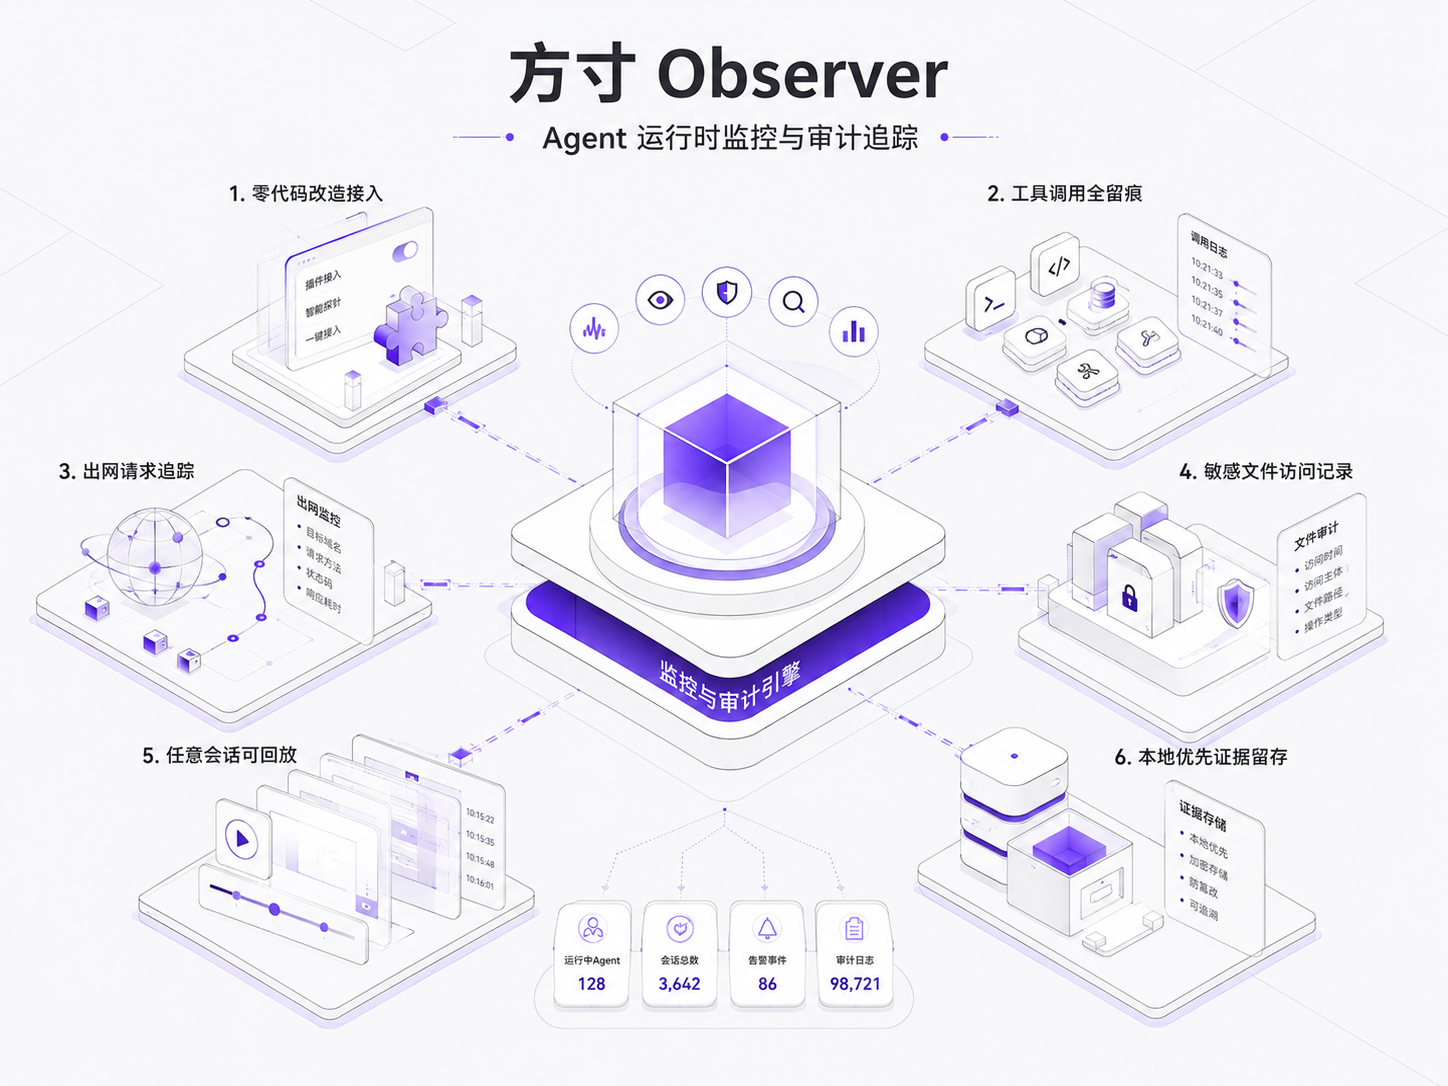
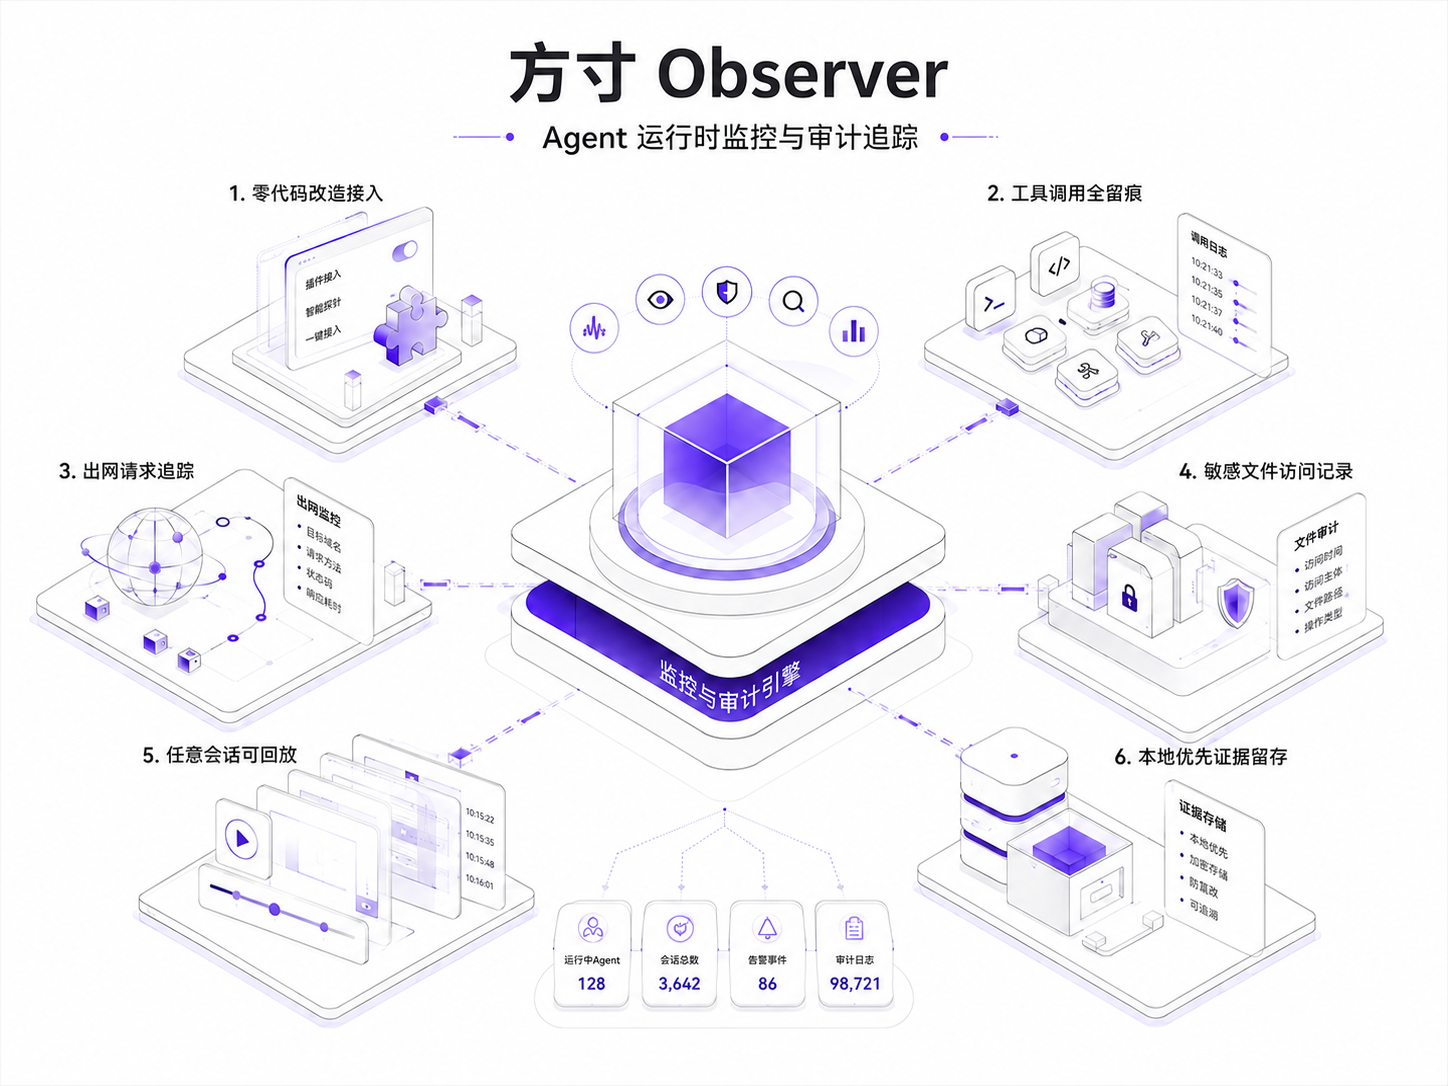
feat: unify homepage styling and fix BFCache navigation issue
- Unified background colors across sections 3-8 (Partners, Solutions, CoreTech, Products, News) to bg-secondary/40
- Enlarged company logo from 32px to 48px in Header and Footer for better visibility
- Updated partner logos: reduced to 4, then expanded to 7 total (清华, 新紫光, CnAISDA, SAIF, 水木清华, 星联, SEEFUND)
- Fixed marquee spacing between queue head and tail by changing pl-4 to ml-4
- Updated button links:
  * Products "查看详情" now links to actual blog posts
  * ContactCta "申请演示" → mailto:[email redacted]
  * ContactCta "免费试用护栏" → https://platform.fangcunleap.com/platform/register
  * Removed CoreTech bottom buttons (申请演示, 查看技术报道)
- Changed ContactCta background image from contact-banner.jpg to contact-banner-2.png
- **Critical fix**: Converted all internal navigation from native <a> tags to Next.js <Link> components
  * Fixes Browser Back-Forward Cache (BFCache) issue causing all interactive effects to fail
  * Affected files: header.tsx, footer.tsx, products.tsx, news.tsx
  * External links remain as <a target="_blank"> for proper behavior
- Removed debug console.log from header scroll handler

diff --git a/components/site/footer.tsx b/components/site/footer.tsx
@@ -1,6 +1,6 @@
 "use client"
 
-import Image from "next/image"
+import Link from "next/link"
 import { Logo } from "./logo"
 import { useLanguage } from "./language-context"
 
@@ -118,18 +118,30 @@ export function Footer() {
               <div key={col.title}>
                 <h4 className="text-sm font-semibold text-white">{col.title}</h4>
                 <ul className="mt-4 space-y-2.5">
-                  {col.links.map((link) => (
-                    <li key={link.label}>
-                      <a
-                        href={link.href}
-                        className="text-xs leading-relaxed text-white/60 transition-colors hover:text-white"
-                        target={link.href.startsWith('http') ? '_blank' : undefined}
-                        rel={link.href.startsWith('http') ? 'noopener noreferrer' : undefined}
-                      >
-                        {link.label}
-                      </a>
-                    </li>
-                  ))}
+                  {col.links.map((link) => {
+                    const isExternal = link.href.startsWith('http')
+                    return (
+                      <li key={link.label}>
+                        {isExternal ? (
+                          <a
+                            href={link.href}
+                            className="text-xs leading-relaxed text-white/60 transition-colors hover:text-white"
+                            target="_blank"
+                            rel="noopener noreferrer"
+                          >
+                            {link.label}
+                          </a>
+                        ) : (
+                          <Link
+                            href={link.href}
+                            className="text-xs leading-relaxed text-white/60 transition-colors hover:text-white"
+                          >
+                            {link.label}
+                          </Link>
+                        )}
+                      </li>
+                    )
+                  })}
                 </ul>
               </div>
             ))}
@@ -141,8 +153,8 @@ export function Footer() {
           <div className="flex flex-wrap gap-x-4 gap-y-2">
             <a href="#" className="hover:text-white">冀ICP备2026005892号</a>
             <a href="#" className="hover:text-white">冀公网安备13310202000276号</a>
-            <a href="/privacy" className="hover:text-white">{lang === "zh" ? "隐私政策" : "Privacy Policy"}</a>
-            <a href="/terms" className="hover:text-white">{lang === "zh" ? "服务条款" : "Terms of Service"}</a>
+            <Link href="/privacy" className="hover:text-white">{lang === "zh" ? "隐私政策" : "Privacy Policy"}</Link>
+            <Link href="/terms" className="hover:text-white">{lang === "zh" ? "服务条款" : "Terms of Service"}</Link>
           </div>
         </div>
       </div>

diff --git a/components/site/header.tsx b/components/site/header.tsx
@@ -1,6 +1,7 @@
 "use client"
 
 import { useEffect, useState } from "react"
+import Link from "next/link"
 import { ChevronDown, Menu, X, Globe } from "lucide-react"
 import { Logo } from "./logo"
 import { getNavItems } from "./nav-data"
@@ -20,7 +21,6 @@ export function Header() {
   useEffect(() => {
     const onScroll = () => {
       const isScrolled = window.scrollY > 40
-      console.log('Scroll Y:', window.scrollY, 'Scrolled:', isScrolled)
       setScrolled(isScrolled)
     }
     onScroll()
@@ -39,9 +39,9 @@ export function Header() {
       }`}
     >
       <div className="mx-auto flex h-16 max-w-7xl items-center justify-between gap-4 px-4 md:px-6">
-        <a href="/" aria-label="方寸跃迁首页">
+        <Link href="/" aria-label="方寸跃迁首页">
           <Logo light={light} />
-        </a>
+        </Link>
 
         {/* Desktop nav */}
         <nav className="hidden items-center gap-1 lg:flex">
@@ -59,7 +59,7 @@ export function Header() {
                   <ChevronDown className="h-3.5 w-3.5 opacity-70 transition-transform group-hover:rotate-180" />
                 </button>
               ) : (
-                <a
+                <Link
                   href={item.href}
                   className={`flex items-center gap-1 rounded-md px-3 py-2 text-sm font-medium transition-colors ${
                     light
@@ -68,13 +68,13 @@ export function Header() {
                   }`}
                 >
                   {item.label}
-                </a>
+                </Link>
               )}
               {item.children && (
                 <div className="invisible absolute left-1/2 top-full w-72 -translate-x-1/2 pt-3 opacity-0 transition-all duration-200 group-hover:visible group-hover:opacity-100">
                   <div className="rounded-xl border border-border bg-popover p-2 shadow-xl">
                     {item.children.map((c) => (
-                      <a
+                      <Link
                         key={c.label}
                         href={c.href}
                         className="block rounded-lg px-3 py-2 transition-colors hover:bg-accent"
@@ -87,7 +87,7 @@ export function Header() {
                             {c.desc}
                           </span>
                         )}
-                      </a>
+                      </Link>
                     ))}
                   </div>
                 </div>
@@ -151,20 +151,20 @@ export function Header() {
         <div className="max-h-[70vh] overflow-y-auto border-t border-border bg-background px-4 py-3 lg:hidden">
           {navItems.map((item) => (
             <div key={item.label} className="border-b border-border/60 py-2">
-              <a
+              <Link
                 href={item.href ?? "#"}
                 className="block px-1 py-1.5 text-sm font-semibold text-foreground"
               >
                 {item.label}
-              </a>
+              </Link>
               {item.children?.map((c) => (
-                <a
+                <Link
                   key={c.label}
                   href={c.href}
                   className="block px-3 py-1.5 text-sm text-muted-foreground"
                 >
                   {c.label}
-                </a>
+                </Link>
               ))}
             </div>
           ))}

diff --git a/components/site/products.tsx b/components/site/products.tsx
@@ -1,6 +1,7 @@
 "use client"
 
 import { useState } from "react"
+import Link from "next/link"
 import Image from "next/image"
 import { ArrowRight, CheckCircle2, Shield, Eye, ScanSearch, Swords } from "lucide-react"
 import { useLanguage } from "./language-context"
@@ -61,8 +62,18 @@ export function Products() {
   const [active, setActive] = useState(0)
   const product = products[active]
 
+  const getProductLink = (key: string) => {
+    const links: Record<string, string> = {
+      guard: "/blog/fangcunguard",
+      observer: "/blog/observer",
+      skillward: "/blog/skillward",
+      redteam: "/solutions#redteam",
+    }
+    return links[key] || "#contact"
+  }
+
   return (
-    <section id="products" className="bg-background py-20 md:py-28">
+    <section id="products" className="bg-secondary/40 py-20 md:py-28">
       <div className="mx-auto max-w-7xl px-4 md:px-6">
         <div className="text-center">
           <h2 className="text-balance text-3xl font-bold md:text-4xl">
@@ -116,12 +127,12 @@ export function Products() {
                 </li>
               ))}
             </ul>
-            <a
-              href="#contact"
+            <Link
+              href={getProductLink(product.key)}
               className="mt-8 inline-flex items-center gap-2 text-sm font-semibold text-primary"
             >
               {lang === "zh" ? "查看详情" : "Learn More"} <ArrowRight className="h-4 w-4" />
-            </a>
+            </Link>
           </div>
         </div>
       </div>

diff --git a/components/site/partners.tsx b/components/site/partners.tsx
@@ -4,18 +4,16 @@ import { useLanguage } from "./language-context"
 
 const logos = [
   { src: "/partners-fangcun/tsinghua.png", alt: "清华大学" },
-  { src: "/partners-fangcun/mit.png", alt: "MIT" },
-  { src: "/partners-fangcun/ucberkeley.png", alt: "UC Berkeley" },
-  { src: "/partners-fangcun/uw.png", alt: "University of Washington" },
-  { src: "/partners-fangcun/baidu.svg", alt: "百度" },
   { src: "/partners-fangcun/unisplendour.png", alt: "新紫光集团" },
   { src: "/partners-fangcun/cnaisda.png", alt: "CnAISDA" },
-  { src: "/partners-fangcun/mats.svg", alt: "MATS" },
   { src: "/partners-fangcun/saif.svg", alt: "SAIF" },
+  { src: "/partners-fangcun/logo-shuimuqinghua.png", alt: "水木清华" },
+  { src: "/partners-fangcun/logo-xinglian.png", alt: "星联" },
+  { src: "/partners-fangcun/logo-SEEFUND.png", alt: "SEEFUND" },
 ]
 
-const row1 = logos.slice(0, 5)
-const row2 = logos.slice(4)
+const row1 = logos
+const row2 = logos
 
 function Marquee({ items, reverse = false }: { items: typeof logos; reverse?: boolean }) {
   const doubled = [...items, ...items]
@@ -40,7 +38,7 @@ function Marquee({ items, reverse = false }: { items: typeof logos; reverse?: bo
         ))}
       </div>
       <div
-        className="animate-marquee flex shrink-0 items-center gap-4 pl-4"
+        className="animate-marquee flex shrink-0 items-center gap-4 ml-4"
         style={reverse ? { animationDirection: "reverse" } : undefined}
         aria-hidden="true"
       >
@@ -66,7 +64,7 @@ export function Partners() {
   const { lang } = useLanguage()
 
   return (
-    <section className="relative overflow-hidden bg-background py-20">
+    <section className="relative overflow-hidden bg-secondary/40 py-20">
       <div className="relative mx-auto max-w-7xl px-4 md:px-6">
         <p className="text-center text-sm font-medium uppercase tracking-[0.2em] text-muted-foreground">
           RESEARCH & INDUSTRY PARTNERS

diff --git a/components/site/core-tech.tsx b/components/site/core-tech.tsx
@@ -93,20 +93,6 @@ export function CoreTech() {
               className="object-cover"
             />
           </div>
-          <div className="flex flex-wrap justify-center gap-4 pb-2 md:absolute md:bottom-8 md:right-8 md:justify-end">
-            <a
-              href="#contact"
-              className="inline-flex items-center gap-2 rounded-full bg-foreground px-6 py-3 text-sm font-semibold text-background transition-transform hover:-translate-y-0.5"
-            >
-              {lang === "zh" ? "申请演示" : "Request Demo"} <ArrowRight className="h-4 w-4" />
-            </a>
-            <a
-              href="#news"
-              className="inline-flex items-center gap-2 rounded-full border border-border bg-card px-6 py-3 text-sm font-semibold text-foreground hover:border-primary/50"
-            >
-              {lang === "zh" ? "查看技术报道" : "View Tech Coverage"}
-            </a>
-          </div>
         </div>
       </div>
     </section>

diff --git a/components/site/news.tsx b/components/site/news.tsx
@@ -1,6 +1,7 @@
 "use client"
 
 import { useState } from "react"
+import Link from "next/link"
 import Image from "next/image"
 import { ArrowRight, Newspaper, Radio } from "lucide-react"
 import { useLanguage } from "./language-context"
@@ -96,7 +97,7 @@ export function News() {
   const items = newsData[tab]
 
   return (
-    <section id="news" className="bg-background py-20 md:py-28">
+    <section id="news" className="bg-secondary/40 py-20 md:py-28">
       <div className="mx-auto max-w-7xl px-4 md:px-6">
         <h2 className="text-center text-balance text-3xl font-bold md:text-4xl">
           {lang === "zh"
@@ -129,7 +130,7 @@ export function News() {
 
         <div className="mt-10 grid gap-5 sm:grid-cols-2 lg:grid-cols-3">
           {items.map((n) => (
-            <a
+            <Link
               key={typeof n.title === "string" ? n.title : n.title[lang]}
               href={n.href}
               className="group flex flex-col overflow-hidden rounded-2xl border border-border bg-card transition-shadow hover:shadow-lg"
@@ -164,17 +165,17 @@ export function News() {
                   </span>
                 </div>
               </div>
-            </a>
+            </Link>
           ))}
         </div>
 
         <div className="mt-10 flex justify-center">
-          <a
+          <Link
             href="/news"
             className="inline-flex items-center gap-2 rounded-full border border-border px-6 py-3 text-sm font-semibold text-foreground hover:border-primary/50"
           >
             {lang === "zh" ? "查看所有动态" : "View All Updates"} <ArrowRight className="h-4 w-4" />
-          </a>
+          </Link>
         </div>
       </div>
     </section>

diff --git a/components/site/contact-cta.tsx b/components/site/contact-cta.tsx
@@ -11,7 +11,7 @@ export function ContactCta() {
     <section className="relative overflow-hidden">
       <div className="relative h-[280px] w-full md:h-[360px]">
         <Image
-          src="/site/contact-banner.jpg"
+          src="/site/contact-banner-2.png"
           alt={lang === "zh" ? "体验企业级 AI 安全防护" : "Experience Enterprise-Grade AI Security"}
           fill
           sizes="100vw"
@@ -30,13 +30,13 @@ export function ContactCta() {
           </p>
           <div className="mt-8 flex flex-wrap justify-center gap-4">
             <a
-              href="#contact"
+              href="mailto:[email redacted]"
               className="inline-flex items-center gap-2 rounded-full bg-primary px-7 py-3 text-sm font-semibold text-white transition-transform hover:scale-[1.03]"
             >
               {lang === "zh" ? "申请演示" : "Request Demo"} <ArrowRight className="h-4 w-4" />
             </a>
             <a
-              href="#products"
+              href="https://platform.fangcunleap.com/platform/register"
               className="inline-flex items-center gap-2 rounded-full border border-gray-900/30 bg-white/60 px-7 py-3 text-sm font-semibold text-gray-900 transition-transform hover:scale-[1.03]"
             >
               {lang === "zh" ? "免费试用护栏" : "Try Guardrails Free"}

diff --git a/components/site/logo.tsx b/components/site/logo.tsx
@@ -6,9 +6,9 @@ export function Logo({ light = false }: { light?: boolean }) {
       <Image
         src="/fangcun-logo.png"
         alt="方寸跃迁 logo"
-        width={34}
-        height={34}
-        className="h-8 w-8 object-contain"
+        width={48}
+        height={48}
+        className="h-12 w-12 object-contain"
         priority
       />
       <div className="flex flex-col leading-none">

diff --git a/components/site/solutions.tsx b/components/site/solutions.tsx
@@ -37,7 +37,7 @@ export function Solutions() {
   const [open, setOpen] = useState(0)
 
   return (
-    <section id="solutions" className="bg-background py-20 md:py-28">
+    <section id="solutions" className="bg-secondary/40 py-20 md:py-28">
       <div className="mx-auto max-w-7xl px-4 md:px-6">
         <div className="text-center">
           <h2 className="text-balance text-3xl font-bold leading-tight md:text-4xl">